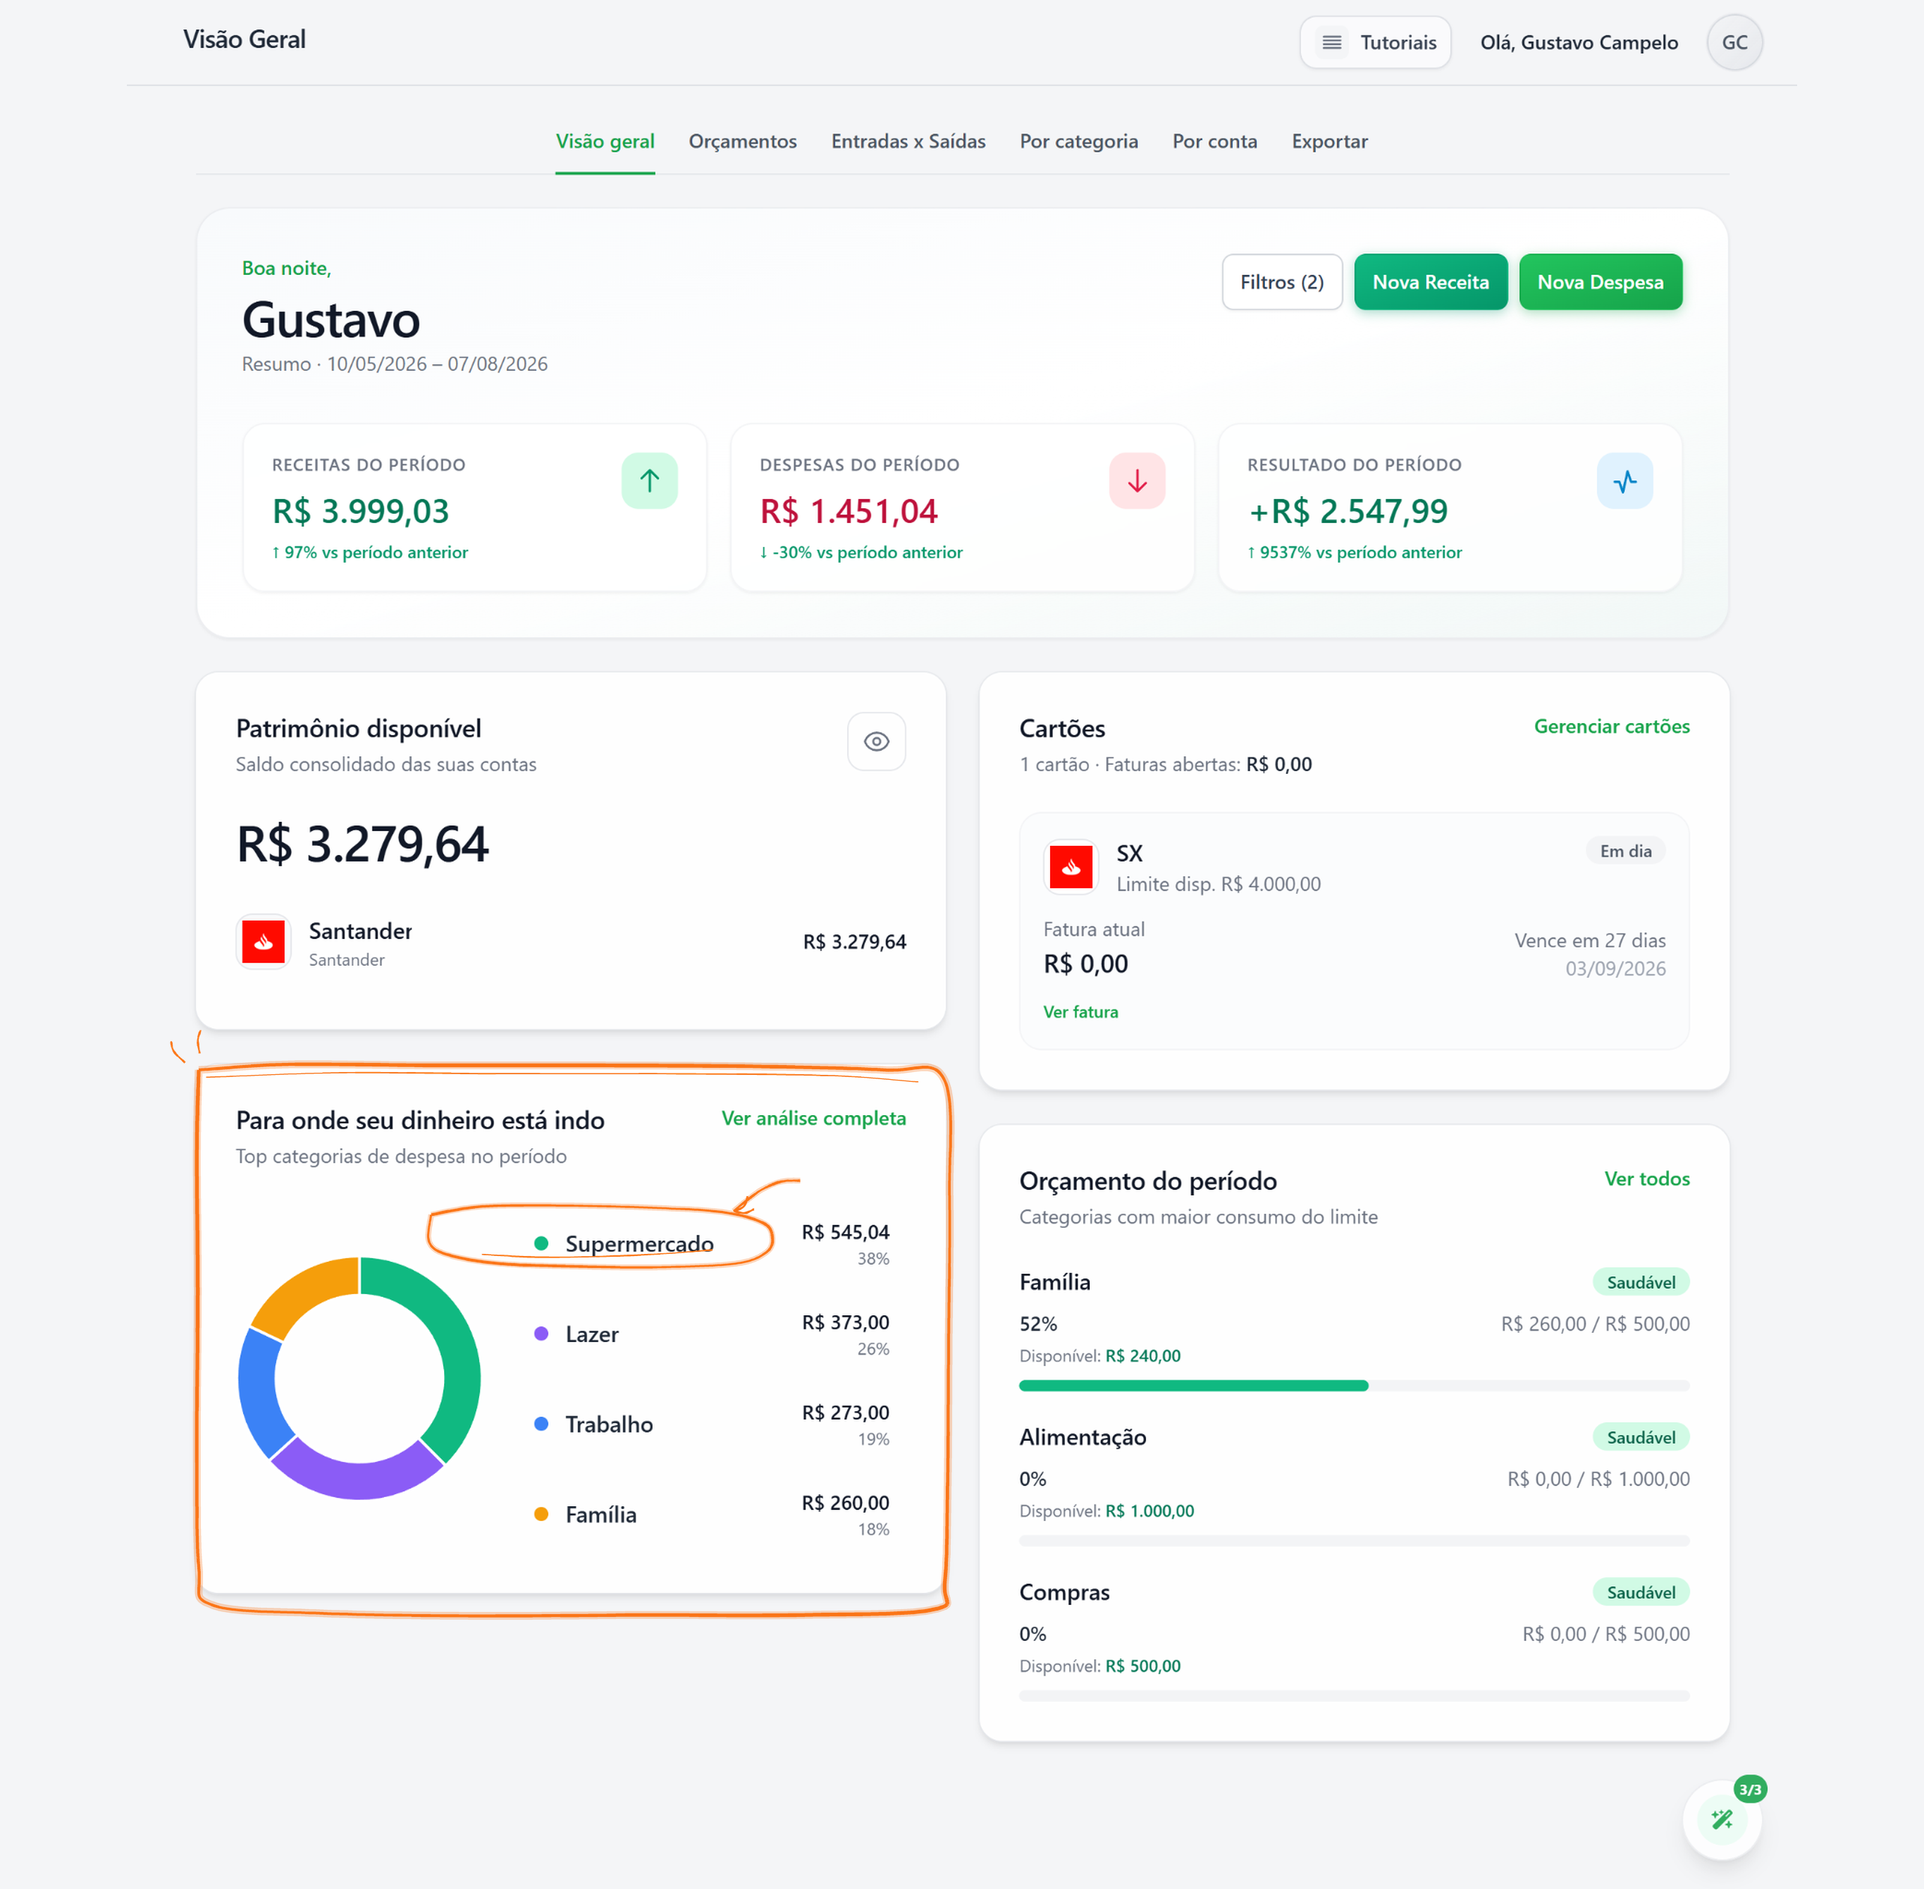
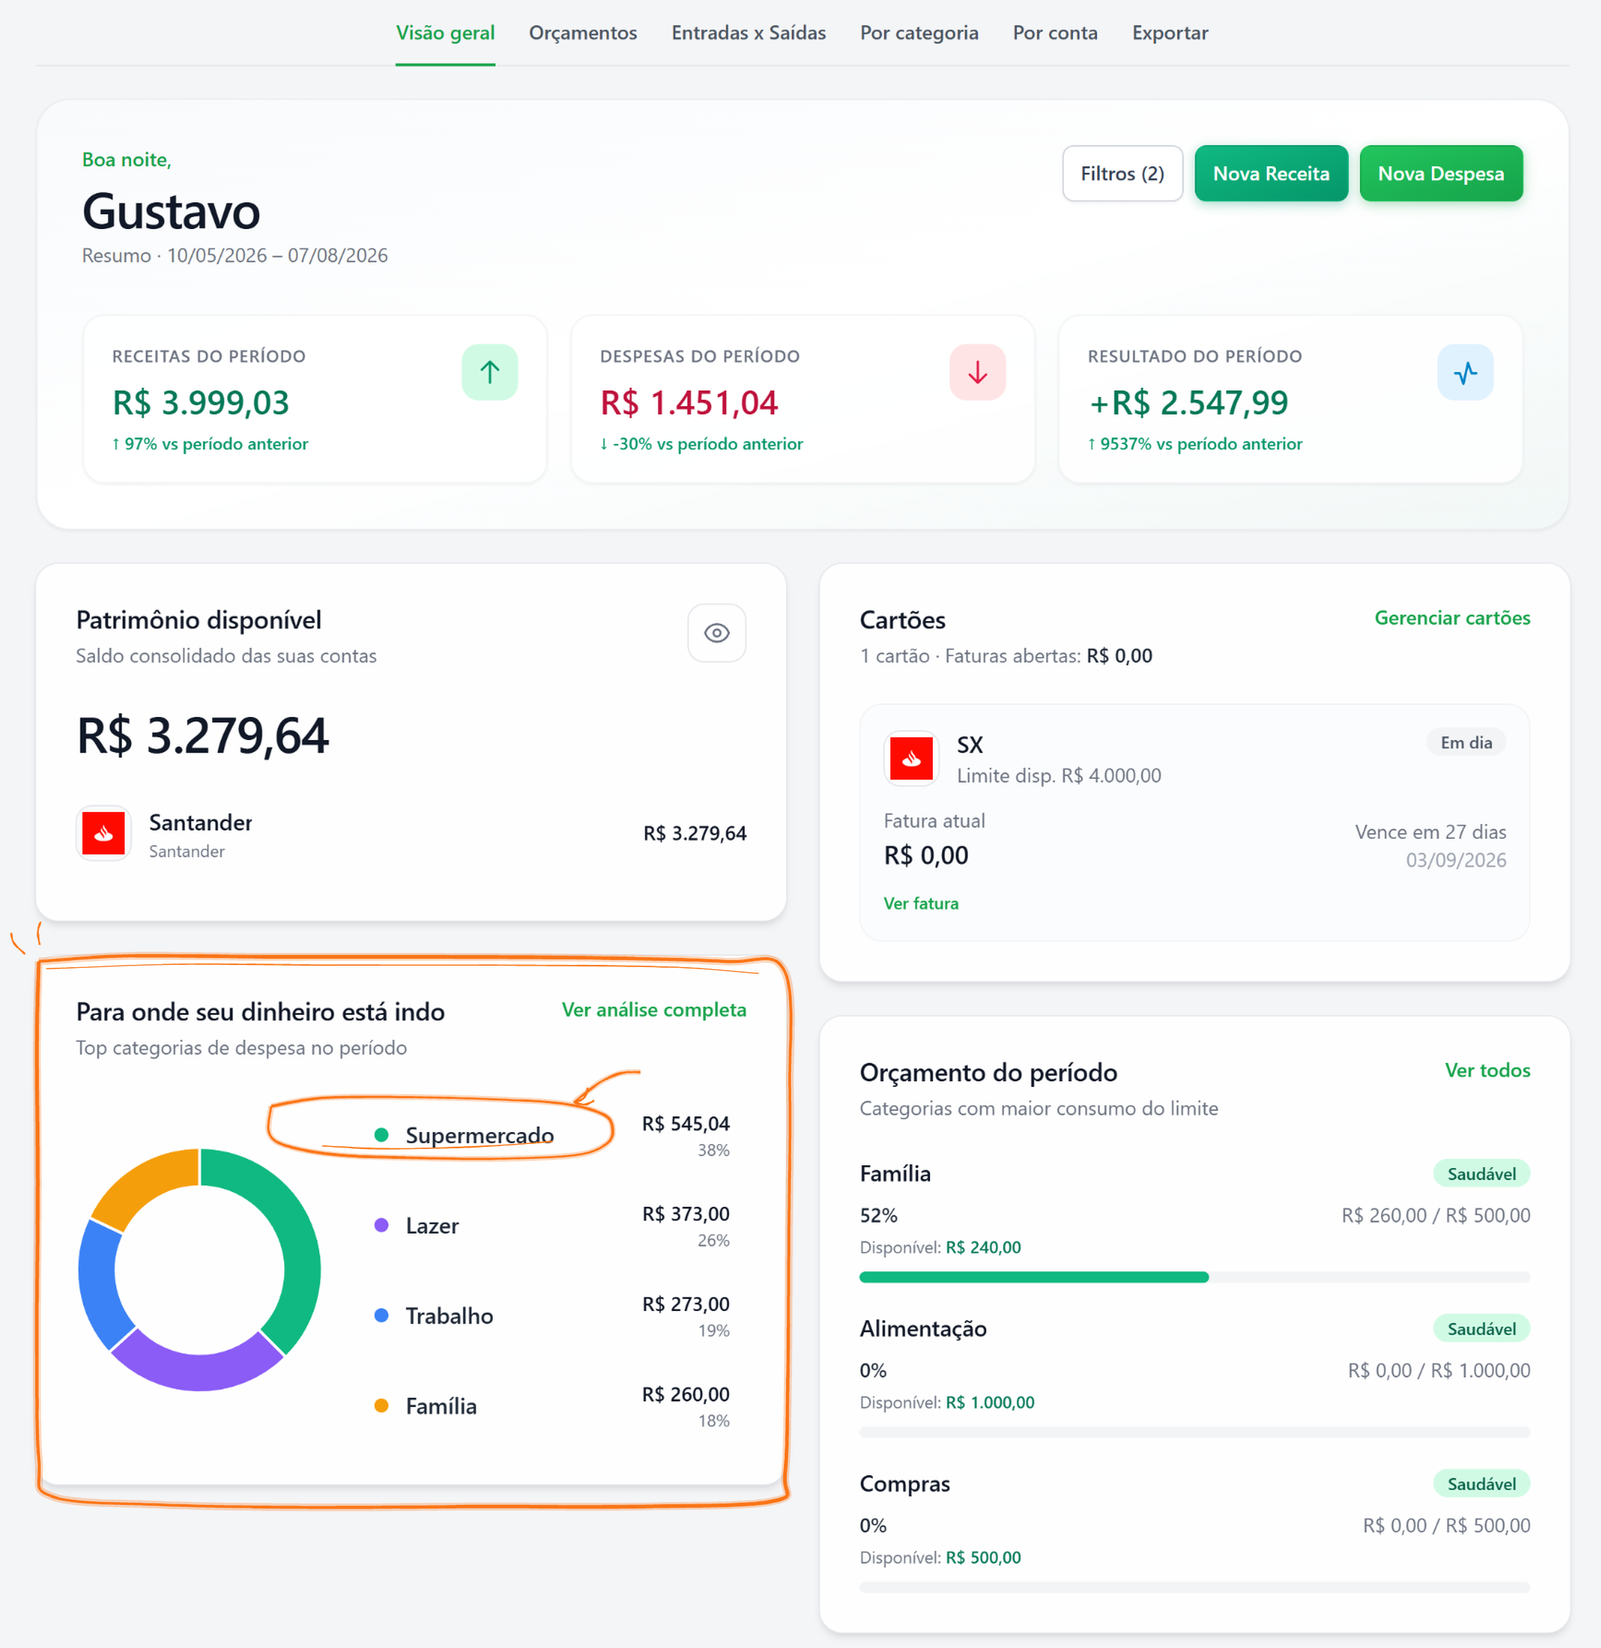
feat(landing): refina cadência visual, CTAs e modal
Ajusta backgrounds mint/verde, copy dos botões, footer alinhado e remove CTA duplicado do programa.

diff --git a/static/landing/css/landing.css b/static/landing/css/landing.css
@@ -9,6 +9,15 @@
   --lp-mint-soft: #f8fcf9;
   --lp-mint-band: #eef8f1;
 
+  /* Section surfaces — light-first cadence (mint → soft green → white → mint → dark → mint) */
+  --lp-band-hero-from: #f3faf5;
+  --lp-band-hero-mid: #fbfefc;
+  --lp-band-pain: #eaf7ef;
+  --lp-band-pain-to: #eff9f2;
+  --lp-band-programa-from: #e8f6ec;
+  --lp-band-programa-to: #f3faf5;
+  --lp-band-footer: #f7fbf8;
+
   /* Ink */
   --lp-ink: #0b1220;
   --lp-ink-2: #1e293b;
@@ -164,7 +173,12 @@ html {
   background:
     radial-gradient(ellipse 70% 55% at 12% 18%, rgba(34, 197, 94, 0.12), transparent 58%),
     radial-gradient(ellipse 55% 45% at 88% 8%, rgba(16, 185, 129, 0.08), transparent 52%),
-    linear-gradient(180deg, #f3faf5 0%, #fbfefc 42%, #ffffff 100%);
+    linear-gradient(
+      180deg,
+      var(--lp-band-hero-from) 0%,
+      var(--lp-band-hero-mid) 42%,
+      var(--lp-white) 100%
+    );
 }
 
 .lp-band--muted-light {
@@ -183,7 +197,11 @@ html {
 .lp-band--pain {
   position: relative;
   overflow: hidden;
-  background: rgba(34, 197, 94, 0.05);
+  background: linear-gradient(
+    180deg,
+    var(--lp-band-pain) 0%,
+    var(--lp-band-pain-to) 100%
+  );
 }
 
 .lp-band--white,
@@ -191,11 +209,20 @@ html {
   background: var(--lp-white);
 }
 
-.lp-band--steps,
-.lp-band--programa {
+.lp-band--steps {
   background:
     radial-gradient(ellipse 50% 40% at 100% 0%, rgba(34, 197, 94, 0.08), transparent 55%),
-    linear-gradient(180deg, #f7fbf8 0%, #ffffff 100%);
+    linear-gradient(180deg, var(--lp-band-footer) 0%, var(--lp-white) 100%);
+}
+
+.lp-band--programa {
+  background:
+    radial-gradient(ellipse 50% 40% at 100% 0%, rgba(34, 197, 94, 0.07), transparent 55%),
+    linear-gradient(
+      180deg,
+      var(--lp-band-programa-from) 0%,
+      var(--lp-band-programa-to) 100%
+    );
 }
 
 .lp-band--cta {
@@ -2152,10 +2179,9 @@ html {
 .lp-modal-kicker {
   margin: 0 0 0.35rem;
   font-size: 0.7rem;
-  font-weight: 700;
-  letter-spacing: 0.08em;
-  text-transform: uppercase;
-  color: var(--lp-green-deep);
+  font-weight: 600;
+  letter-spacing: -0.025em;
+  color: var(--lp-green-dark);
 }
 
 .lp-modal-title {

diff --git a/templates/landing/partials/modal_captura.html b/templates/landing/partials/modal_captura.html
@@ -9,7 +9,7 @@
   <div data-modal-panel class="modal-panel lp-modal-panel mx-auto w-full max-w-md">
     <div class="lp-modal-header flex shrink-0 items-start justify-between gap-4 px-5 py-5 sm:px-7 sm:py-6">
       <div class="min-w-0 pr-2">
-        <p class="lp-modal-kicker" aria-hidden="true">Primeiros Donos</p>
+        <p class="lp-modal-kicker" aria-hidden="true">GranaGo</p>
         <h2 id="titulo-modal-captura" class="lp-modal-title">
           Garanta sua vaga
         </h2>
@@ -64,13 +64,13 @@
           {% if captura_form.whatsapp.errors %}
             <p class="mt-1.5 text-sm text-danger" role="alert">{{ captura_form.whatsapp.errors.0 }}</p>
           {% endif %}
-          <p class="lp-modal-hint">Só para te guiar no primeiro acesso.</p>
+          <p class="lp-modal-hint">Para acompanharmos sua experiência com o GranaGo.</p>
         </div>
       </div>
 
       <div class="modal-panel__footer lp-modal-footer space-y-3 px-5 py-5 sm:px-7">
         <button type="submit" class="btn btn-primary lp-btn-premium btn-block py-3.5 text-base" data-captura-submit>
-          Quero meu acesso gratuito ao GranaGo <span class="lp-cta-arrow" aria-hidden="true">→</span>
+          Garantir minha vaga no GranaGo
         </button>
         <p class="lp-modal-privacy">
           🔒 Seus dados são protegidos. Não enviamos spam.

diff --git a/templates/landing/partials/footer.html b/templates/landing/partials/footer.html
@@ -1,6 +1,6 @@
 {% load static %}
 <footer class="border-t border-[#d8ebe0] bg-[#f7fbf8]">
-  <div class="lp-container flex flex-col items-center gap-5 py-12 text-center sm:flex-row sm:justify-between sm:text-left">
+  <div class="lp-container flex flex-col items-center gap-5 py-12 pb-10 text-center">
     <div class="flex items-center gap-2.5">
       <img src="{% static 'img/icons/logo.svg' %}" alt="" class="h-8 w-8" width="32" height="32" />
       <span class="text-lg font-semibold tracking-tight text-brand-600">GranaGo</span>
@@ -11,6 +11,6 @@
       <a href="{% url 'usuarios:termos' %}" class="font-semibold text-brand-600 hover:underline">Termos</a>
       <a href="{{ app_login_url }}" class="font-semibold text-brand-600 hover:underline">Entrar</a>
     </nav>
+    <p class="text-sm text-fg-muted">© {% now "Y" %} GranaGo</p>
   </div>
-  <p class="pb-10 text-center text-sm text-fg-muted">© {% now "Y" %} GranaGo</p>
 </footer>

diff --git a/templates/landing/partials/cta_final.html b/templates/landing/partials/cta_final.html
@@ -1,7 +1,7 @@
 <section id="garantir-vaga" class="lp-section lp-band lp-band--cta lp-reveal scroll-mt-20">
   <div class="lp-band__inner lp-container">
     <div class="lp-cta-panel">
-      <h2 class="lp-headline">Garanta sua vaga no Primeiros Donos</h2>
+      <h2 class="lp-headline">Garanta sua vaga no GranaGo</h2>
       <p class="lp-body mt-6">
         Preencha abaixo. Você recebe o acesso ao GranaGo direto no e-mail — em instantes.
       </p>
@@ -13,7 +13,7 @@
         class="btn btn-primary lp-btn-premium lp-cta-btn btn-block mt-10 py-3.5 text-base sm:mx-auto sm:max-w-md"
         data-open-captura
       >
-        Quero meu acesso gratuito ao GranaGo <span class="lp-cta-arrow" aria-hidden="true">→</span>
+        Garantir minha vaga no GranaGo
       </button>
       <p class="lp-cta-privacy mt-5">
         🔒 Seus dados são protegidos. Não enviamos spam.

diff --git a/templates/landing/partials/programa.html b/templates/landing/partials/programa.html
@@ -36,14 +36,6 @@
       <p class="lp-programa-scarcity" role="status">
         50 vagas. Quando acabar, acabou.
       </p>
-
-      <button
-        type="button"
-        class="btn btn-primary lp-btn-premium btn-block mt-8 py-3.5 text-base"
-        data-open-captura
-      >
-        Quero meu acesso gratuito ao GranaGo <span class="lp-cta-arrow" aria-hidden="true">→</span>
-      </button>
     </div>
   </div>
 </section>

diff --git a/templates/landing/partials/hero.html b/templates/landing/partials/hero.html
@@ -19,7 +19,7 @@
             class="btn btn-primary lp-btn-premium lp-hero-btn px-8 py-3.5 text-base btn-block sm:w-auto"
             data-open-captura
           >
-            Quero meu acesso gratuito ao GranaGo <span class="lp-cta-arrow" aria-hidden="true">→</span>
+            Garantir minha vaga no GranaGo
           </button>
         </div>
       </div>

diff --git a/templates/landing/partials/header.html b/templates/landing/partials/header.html
@@ -16,7 +16,7 @@
         data-open-captura
         data-captura-fallback="{% url 'usuarios:landing' %}#garantir-vaga"
       >
-        Quero acesso
+        Quero minha vaga
       </button>
     </nav>
   </div>
